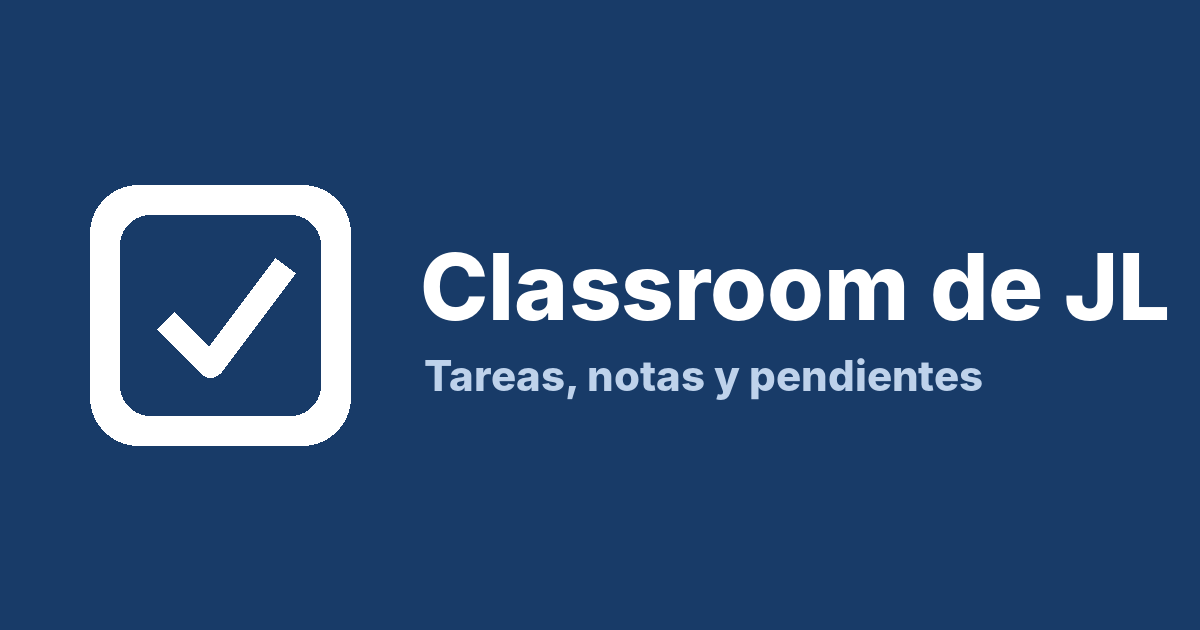
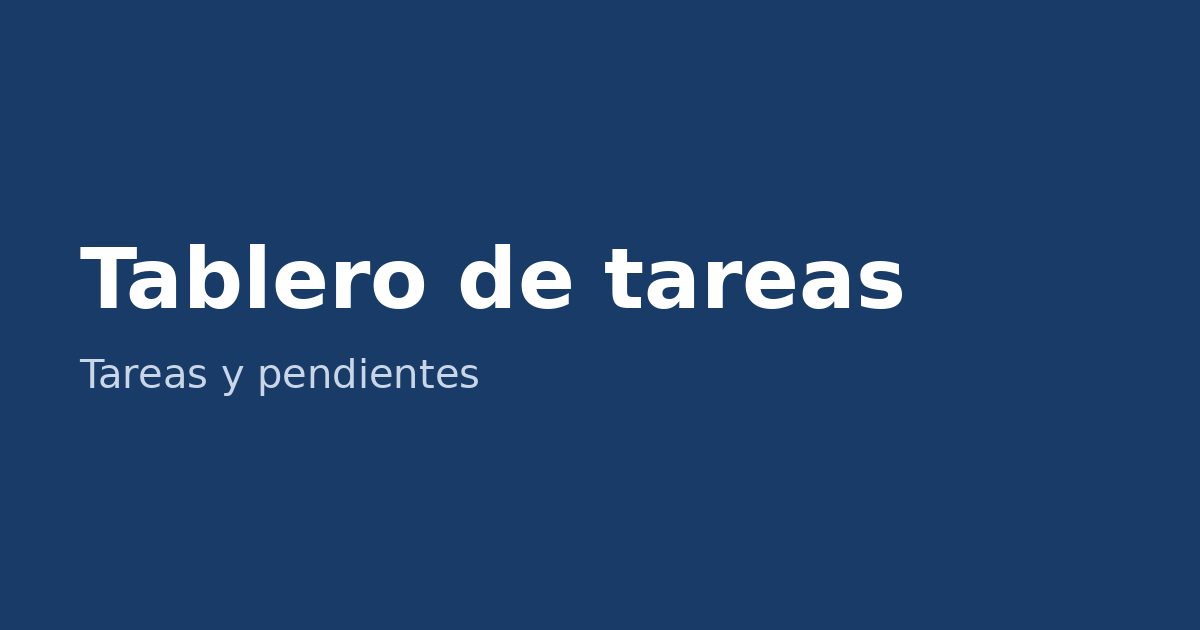
Tablero de tareas público, sin nombres ni escuela
Claude-Session: https://claude.ai/code/session_01HFkUmPTBMZ2rbrCnvtjHNH

Changed region(s): [[0.0617, 0.2714, 0.9867, 0.7238]]

diff --git a/index.html b/index.html
@@ -1,23 +1,70 @@
 <!doctype html>
-<html lang="es">
-<head>
-<meta charset="utf-8">
-<title>Classroom de JL</title>
-<meta name="viewport" content="width=device-width, initial-scale=1">
-<meta name="description" content="Tareas, notas y pendientes de JL">
+<html lang="es"><head><meta charset="utf-8"><meta name="viewport" content="width=device-width,initial-scale=1">
+<title>Tablero de tareas</title>
+<meta name="robots" content="noindex,nofollow">
 <link rel="icon" type="image/svg+xml" href="favicon.svg">
-<meta property="og:type" content="website">
-<meta property="og:title" content="Classroom de JL">
-<meta property="og:description" content="Tareas, notas y pendientes de JL">
+<meta property="og:title" content="Tablero de tareas">
+<meta property="og:description" content="Tareas y pendientes">
 <meta property="og:image" content="https://jlmz2010.github.io/classroom-jl/preview.png">
-<meta property="og:url" content="https://jlmz2010.github.io/classroom-jl/">
-<meta name="twitter:card" content="summary_large_image">
-<meta name="robots" content="noindex, nofollow">
-<meta http-equiv="refresh" content="0; url=https://claude.ai/artifact/QnpAFgm6RKjJTvh7215C4x">
-<link rel="canonical" href="https://claude.ai/artifact/QnpAFgm6RKjJTvh7215C4x">
-</head>
-<body>
-<p>Abriendo el tablero… <a href="https://claude.ai/artifact/QnpAFgm6RKjJTvh7215C4x">Si no abre, toca aquí</a>.</p>
-<script>location.replace("https://claude.ai/artifact/QnpAFgm6RKjJTvh7215C4x");</script>
-</body>
-</html>
+<style>
+:root{--bg:#f6f7f9;--fg:#1c2430;--mut:#6a7585;--card:#fff;--line:#e2e6ec;--ok:#2e7d32;--bad:#c62828;--warn:#e08a00;--blue:#183b68}
+@media(prefers-color-scheme:dark){:root{--bg:#0f1319;--fg:#e8ecf2;--mut:#98a3b3;--card:#171d26;--line:#2a3340;--ok:#66bb6a;--bad:#ef5350;--warn:#ffb74d;--blue:#7fb0ee}}
+*{box-sizing:border-box}body{margin:0;background:var(--bg);color:var(--fg);font:15px/1.45 system-ui,sans-serif}
+.w{max-width:1000px;margin:0 auto;padding:16px}
+h1{font-size:22px;margin:0 0 2px}.sub{color:var(--mut);font-size:13px;margin-bottom:14px}
+.k{display:grid;grid-template-columns:repeat(auto-fit,minmax(130px,1fr));gap:10px;margin-bottom:14px}
+.c{background:var(--card);border:1px solid var(--line);border-radius:10px;padding:12px}
+.k .c b{display:block;font-size:26px;line-height:1.1}.k .c span{font-size:12px;color:var(--mut)}
+h2{font-size:16px;margin:0 0 8px}
+table{width:100%;border-collapse:collapse;font-size:14px}
+th,td{text-align:left;padding:6px 8px;border-bottom:1px solid var(--line);vertical-align:top}
+th{font-size:12px;color:var(--mut);font-weight:600}
+.tw{overflow-x:auto}
+.bar{height:8px;background:var(--line);border-radius:4px;min-width:60px}.bar i{display:block;height:100%;border-radius:4px;background:var(--blue)}
+.t{display:inline-block;padding:1px 8px;border-radius:10px;font-size:12px;border:1px solid var(--line);white-space:nowrap}
+.Faltante{color:var(--bad);border-color:var(--bad)}.Pendiente{color:var(--warn);border-color:var(--warn)}.Calificada{color:var(--ok);border-color:var(--ok)}.Entregada{color:var(--blue);border-color:var(--blue)}
+.g{margin-bottom:14px}.n{color:var(--mut);font-size:12px;margin-top:6px}
+input{width:100%;padding:8px;border:1px solid var(--line);border-radius:8px;background:var(--card);color:var(--fg);margin-bottom:8px;font-size:14px}
+</style></head><body><div class="w">
+<h1>Tablero de tareas</h1>
+<div class="sub">Última revisión: 13 oct 2026, 5:38 pm · Datos tal cual aparecen en Classroom</div>
+<div class="k" id="k"></div>
+<div class="c g"><h2>Urgente</h2><div class="tw"><table id="urg"></table></div></div>
+<div class="c g"><h2>Por materia</h2><div class="tw"><table id="mat"></table></div></div>
+<div class="c g"><h2>Faltantes</h2><div class="tw"><table id="fal"></table></div></div>
+<div class="c g"><h2>Todas las tareas</h2><input id="q" placeholder="Buscar materia o tarea"><div class="tw"><table id="all"></table></div>
+<div class="n">Promedio = solo tareas con estado Calificada. Español, Tecnología, Técnicas de Estudio y Socioemocional no muestran notas en Classroom. Artes y Français no tienen tareas publicadas.</div></div>
+</div>
+<script>
+const D=[{"materia": "Matemáticas", "tarea": "Unidad 2 · Ejercicios de razones y proporciones", "limite": "", "estado": "Pendiente", "tardia": "No", "nota": null, "max": 100}, {"materia": "Matemáticas", "tarea": "Jerarquía de operaciones · Trabajo 2", "limite": "", "estado": "Calificada", "tardia": "No", "nota": 100, "max": 100}, {"materia": "Matemáticas", "tarea": "Jerarquía de operaciones · Ejercicios Unidad I Tema 4", "limite": "", "estado": "Calificada", "tardia": "No", "nota": 100, "max": 100}, {"materia": "Matemáticas", "tarea": "Revisión de evidencias en cuaderno", "limite": "", "estado": "Faltante", "tardia": "No", "nota": 0, "max": 100}, {"materia": "Matemáticas", "tarea": "Unidad 1 · Ejercicios temas 2, 3 y 4", "limite": "", "estado": "Calificada", "tardia": "No", "nota": 100, "max": 100}, {"materia": "Matemáticas", "tarea": "Unidad 1 · Ejercicios Tema 1 (9-sep)", "limite": "", "estado": "Calificada", "tardia": "No", "nota": 0, "max": 100}, {"materia": "Español", "tarea": "Tema de blog", "limite": "", "estado": "Entregada", "tardia": "No", "nota": null, "max": null}, {"materia": "Español", "tarea": "Bajo el ruido me encuentro", "limite": "2026-10-09", "estado": "Entregada", "tardia": "No", "nota": null, "max": null}, {"materia": "Español", "tarea": "Proyecto lector actividad 2", "limite": "2026-10-07", "estado": "Entregada", "tardia": "No", "nota": null, "max": null}, {"materia": "Español", "tarea": "Blog en Canva · instrucciones", "limite": "", "estado": "Pendiente", "tardia": "No", "nota": null, "max": null}, {"materia": "Español", "tarea": "Registro plataforma", "limite": "2026-10-05", "estado": "Entregada", "tardia": "No", "nota": null, "max": null}, {"materia": "Español", "tarea": "Mi clima interior (Mindfulness)", "limite": "2026-09-18", "estado": "Faltante", "tardia": "No", "nota": null, "max": null}, {"materia": "Español", "tarea": "Revuelta Unidad 1", "limite": "2026-10-09", "estado": "Faltante", "tardia": "No", "nota": null, "max": null}, {"materia": "Español", "tarea": "Proyecto lector actividad 1", "limite": "2026-09-09", "estado": "Faltante", "tardia": "No", "nota": null, "max": null}, {"materia": "Español", "tarea": "Reglamento de clase", "limite": "2026-09-07", "estado": "Faltante", "tardia": "No", "nota": null, "max": null}, {"materia": "Español", "tarea": "Portada y temario", "limite": "2026-09-04", "estado": "Faltante", "tardia": "No", "nota": null, "max": null}, {"materia": "7th Grade", "tarea": "We are different", "limite": "2026-10-13", "estado": "Pendiente", "tardia": "No", "nota": null, "max": null}, {"materia": "7th Grade", "tarea": "What is in the box?", "limite": "2026-10-08", "estado": "Calificada", "tardia": "Sí", "nota": 100, "max": 100}, {"materia": "7th Grade", "tarea": "Kindness is killing me!", "limite": "", "estado": "Pendiente", "tardia": "No", "nota": null, "max": null}, {"materia": "7th Grade", "tarea": "How to be kind?", "limite": "2026-10-07", "estado": "Entregada", "tardia": "Sí", "nota": null, "max": null}, {"materia": "7th Grade", "tarea": "My favorite things", "limite": "2026-10-05", "estado": "Calificada", "tardia": "Sí", "nota": 100, "max": 100}, {"materia": "7th Grade", "tarea": "The beginning of an epic adventure! Episode 0", "limite": "", "estado": "Pendiente", "tardia": "No", "nota": null, "max": null}, {"materia": "7th Grade", "tarea": "What do they do?", "limite": "2026-10-01", "estado": "Calificada", "tardia": "No", "nota": 100, "max": 100}, {"materia": "7th Grade", "tarea": "What do I do?", "limite": "2026-10-01", "estado": "Calificada", "tardia": "No", "nota": 100, "max": 100}, {"materia": "7th Grade", "tarea": "Enemy Mine", "limite": "2026-09-29", "estado": "Calificada", "tardia": "No", "nota": 100, "max": 100}, {"materia": "7th Grade", "tarea": "The Time Travel Plumber", "limite": "2026-09-24", "estado": "Calificada", "tardia": "No", "nota": 100, "max": 100}, {"materia": "7th Grade", "tarea": "Someone like you", "limite": "2026-09-30", "estado": "Faltante", "tardia": "No", "nota": 100, "max": 100}, {"materia": "7th Grade", "tarea": "Who are we?", "limite": "2026-09-30", "estado": "Calificada", "tardia": "No", "nota": 100, "max": 100}, {"materia": "Socioemocional", "tarea": "Actividad: Construimos nuestro grupo ideal", "limite": "", "estado": "Pendiente", "tardia": "No", "nota": null, "max": null}, {"materia": "Socioemocional", "tarea": "Medición Socioemocional EDUCOMLAB", "limite": "2026-10-10", "estado": "Entregada", "tardia": "No", "nota": null, "max": null}, {"materia": "Socioemocional", "tarea": "Aplicación DADA", "limite": "", "estado": "Pendiente", "tardia": "No", "nota": null, "max": null}, {"materia": "Socioemocional", "tarea": "Jornada de concientización (abuso sexual y maltrato infantil)", "limite": "2026-09-18", "estado": "Faltante", "tardia": "No", "nota": null, "max": null}, {"materia": "Ciencias", "tarea": "Sesión 3 · Science Bits · Nutrición de las células", "limite": "2026-10-09", "estado": "Calificada", "tardia": "No", "nota": 8, "max": 10}, {"materia": "Ciencias", "tarea": "Sesión 2 · Nutrición de células ruta (7-oct)", "limite": "2026-10-07", "estado": "Calificada", "tardia": "No", "nota": 10, "max": 10}, {"materia": "Ciencias", "tarea": "Sesión 4 · Actividad de indagación (2-oct)", "limite": "2026-10-02", "estado": "Calificada", "tardia": "Sí", "nota": 6, "max": 10}, {"materia": "Ciencias", "tarea": "Sesión 3 · Science Bits formados por células (30-sep)", "limite": "2026-09-30", "estado": "Calificada", "tardia": "No", "nota": 9, "max": 10}, {"materia": "Ciencias", "tarea": "Sesión 2 · Science Bits introducción a las células (29-sep)", "limite": "2026-09-29", "estado": "Calificada", "tardia": "Sí", "nota": 9, "max": 10}, {"materia": "Ciencias", "tarea": "Sesión 3 · Los super seres (23-sep)", "limite": "2026-09-28", "estado": "Calificada", "tardia": "No", "nota": 10, "max": 10}, {"materia": "Ciencias", "tarea": "Sesión 2 · Portada inicio de T1 (8-sep)", "limite": "2026-09-08", "estado": "Calificada", "tardia": "Sí", "nota": 5, "max": 10}, {"materia": "Técnicas de Estudio", "tarea": "Contrato estudiantil", "limite": "2026-10-13", "estado": "Entregada", "tardia": "No", "nota": null, "max": null}, {"materia": "Técnicas de Estudio", "tarea": "Estrategias FODA", "limite": "2026-09-29", "estado": "Entregada", "tardia": "No", "nota": null, "max": null}, {"materia": "Técnicas de Estudio", "tarea": "Análisis FODA personal", "limite": "2026-09-28", "estado": "Entregada", "tardia": "No", "nota": null, "max": null}, {"materia": "Técnicas de Estudio", "tarea": "Ejercicio 1 · Visualización de tu vida futura", "limite": "2026-09-08", "estado": "Entregada", "tardia": "No", "nota": null, "max": null}, {"materia": "Tecnología", "tarea": "Actividad 3 · Primer corte láser", "limite": "", "estado": "Entregada", "tardia": "No", "nota": null, "max": null}, {"materia": "Tecnología", "tarea": "Actividad 2 · Esfera de navidad", "limite": "", "estado": "Entregada", "tardia": "No", "nota": null, "max": null}, {"materia": "Tecnología", "tarea": "Introducción al diseño vectorial", "limite": "2026-09-28", "estado": "Entregada", "tardia": "No", "nota": null, "max": null}, {"materia": "Tecnología", "tarea": "Collage ideas proyecto cortadora láser", "limite": "", "estado": "Entregada", "tardia": "No", "nota": null, "max": null}, {"materia": "Tecnología", "tarea": "Actividad 1 · ¿Qué es la tecnología?", "limite": "2026-09-14", "estado": "Faltante", "tardia": "No", "nota": null, "max": null}, {"materia": "Geography", "tarea": "World guessr", "limite": "2026-10-14", "estado": "Pendiente", "tardia": "No", "nota": 100, "max": 100}, {"materia": "Geography", "tarea": "Day of the dead", "limite": "2026-10-15", "estado": "Pendiente", "tardia": "No", "nota": null, "max": null}, {"materia": "Geography", "tarea": "Google maps", "limite": "2026-10-05", "estado": "Calificada", "tardia": "No", "nota": 100, "max": 100}, {"materia": "Geography", "tarea": "Geographical Space Characteristics", "limite": "2026-09-30", "estado": "Faltante", "tardia": "No", "nota": null, "max": null}, {"materia": "Geography", "tarea": "Mindfulness", "limite": "2026-09-17", "estado": "Faltante", "tardia": "No", "nota": 0, "max": 100}, {"materia": "Geography", "tarea": "What is Geography?", "limite": "2026-09-10", "estado": "Calificada", "tardia": "No", "nota": 100, "max": 100}, {"materia": "Geography", "tarea": "1st trimester cover", "limite": "2026-09-09", "estado": "Calificada", "tardia": "No", "nota": 100, "max": 100}, {"materia": "Geography", "tarea": "Class rules", "limite": "2026-09-09", "estado": "Calificada", "tardia": "Sí", "nota": 100, "max": 100}, {"materia": "Historia", "tarea": "El hombre prehistórico y mapa de rutas de migración", "limite": "2026-10-03", "estado": "Faltante", "tardia": "No", "nota": 0, "max": 100}, {"materia": "Historia", "tarea": "Evaluación de historia", "limite": "2026-09-24", "estado": "Calificada", "tardia": "No", "nota": 98, "max": 100}, {"materia": "Historia", "tarea": "Charles Darwin y la evolución de las especies", "limite": "2026-09-11", "estado": "Calificada", "tardia": "No", "nota": 100, "max": 100}, {"materia": "Historia", "tarea": "Materiales para la búsqueda arqueológica", "limite": "2026-09-21", "estado": "Faltante", "tardia": "No", "nota": 0, "max": 100}, {"materia": "Historia", "tarea": "Portada", "limite": "2026-09-04", "estado": "Calificada", "tardia": "No", "nota": 0, "max": 100}];
+const TODAY="2026-10-13";
+const pct=r=>r.nota!=null&&r.max?Math.round(r.nota/r.max*100):null;
+const fd=s=>{if(!s)return"Sin fecha";const[a,m,d]=s.split("-");return d+"/"+m};
+const dow=s=>s?["dom","lun","mar","mié","jue","vie","sáb"][new Date(s+"T12:00:00").getDay()]:"";
+const esc=s=>String(s).replace(/[&<>]/g,c=>({"&":"&amp;","<":"&lt;",">":"&gt;"}[c]));
+const tag=e=>'<span class="t '+e+'">'+e+'</span>';
+const cnt=e=>D.filter(r=>r.estado===e).length;
+const cal=D.filter(r=>r.estado==="Calificada"&&pct(r)!=null);
+const avg=a=>a.length?Math.round(a.reduce((s,r)=>s+pct(r),0)/a.length):null;
+document.getElementById("k").innerHTML=[
+["Promedio",avg(cal)+"%",""],["Calificadas",cnt("Calificada"),""],["Entregadas sin nota",cnt("Entregada"),""],
+["Por entregar",cnt("Pendiente"),""],["Faltantes",cnt("Faltante"),"color:var(--bad)"],["Tardías",D.filter(r=>r.tardia==="Sí").length,""]
+].map(x=>'<div class="c"><b style="'+x[2]+'">'+x[1]+'</b><span>'+x[0]+'</span></div>').join("");
+const row=(r,cols)=>"<tr>"+cols.map(c=>"<td>"+c(r)+"</td>").join("")+"</tr>";
+const notaTxt=r=>r.nota!=null?r.nota+"/"+r.max:"–";
+const odd=r=>(r.estado==="Faltante"||r.estado==="Pendiente")&&r.nota===r.max&&r.nota!=null?" ⚠":"";
+// urgente
+const urg=D.filter(r=>r.estado==="Pendiente"&&r.limite&&r.limite<=TODAY.replace("13","16")).sort((a,b)=>a.limite.localeCompare(b.limite));
+document.getElementById("urg").innerHTML="<tr><th>Fecha</th><th>Materia</th><th>Tarea</th></tr>"+(urg.length?urg.map(r=>row(r,[r=>(r.limite<=TODAY?'<b style="color:var(--bad)">'+dow(r.limite)+" "+fd(r.limite)+"</b>":dow(r.limite)+" "+fd(r.limite)),r=>esc(r.materia),r=>esc(r.tarea)])).join(""):"<tr><td colspan=3>Nada urgente</td></tr>");
+// por materia
+const ms=[...new Set(D.map(r=>r.materia))];
+document.getElementById("mat").innerHTML="<tr><th>Materia</th><th>Promedio</th><th></th><th>Calif.</th><th>Entreg.</th><th>Por entr.</th><th>Falt.</th></tr>"+ms.map(m=>{const rs=D.filter(r=>r.materia===m),c=rs.filter(r=>r.estado==="Calificada"&&pct(r)!=null),a=avg(c);const n=e=>rs.filter(r=>r.estado===e).length;
+return"<tr><td>"+esc(m)+"</td><td>"+(a!=null?a+"%":"s/n")+'</td><td><div class="bar"><i style="width:'+(a||0)+'%"></i></div></td><td>'+n("Calificada")+"</td><td>"+n("Entregada")+"</td><td>"+n("Pendiente")+'</td><td style="color:var(--bad)">'+n("Faltante")+"</td></tr>"}).join("");
+// faltantes
+document.getElementById("fal").innerHTML="<tr><th>Materia</th><th>Tarea</th><th>Límite</th><th>Nota</th></tr>"+D.filter(r=>r.estado==="Faltante").sort((a,b)=>a.materia.localeCompare(b.materia)).map(r=>row(r,[r=>esc(r.materia),r=>esc(r.tarea)+odd(r),r=>fd(r.limite),r=>notaTxt(r)])).join("");
+// todas
+const all=document.getElementById("all");
+function draw(q){q=q.toLowerCase();const rs=D.filter(r=>(r.materia+" "+r.tarea).toLowerCase().includes(q));
+all.innerHTML="<tr><th>Materia</th><th>Tarea</th><th>Límite</th><th>Estado</th><th>Nota</th></tr>"+rs.map(r=>row(r,[r=>esc(r.materia),r=>esc(r.tarea)+(r.tardia==="Sí"?' <span class="t">tardía</span>':"")+odd(r),r=>fd(r.limite),r=>tag(r.estado),r=>notaTxt(r)])).join("")}
+draw("");document.getElementById("q").oninput=e=>draw(e.target.value);
+</script></body></html>
